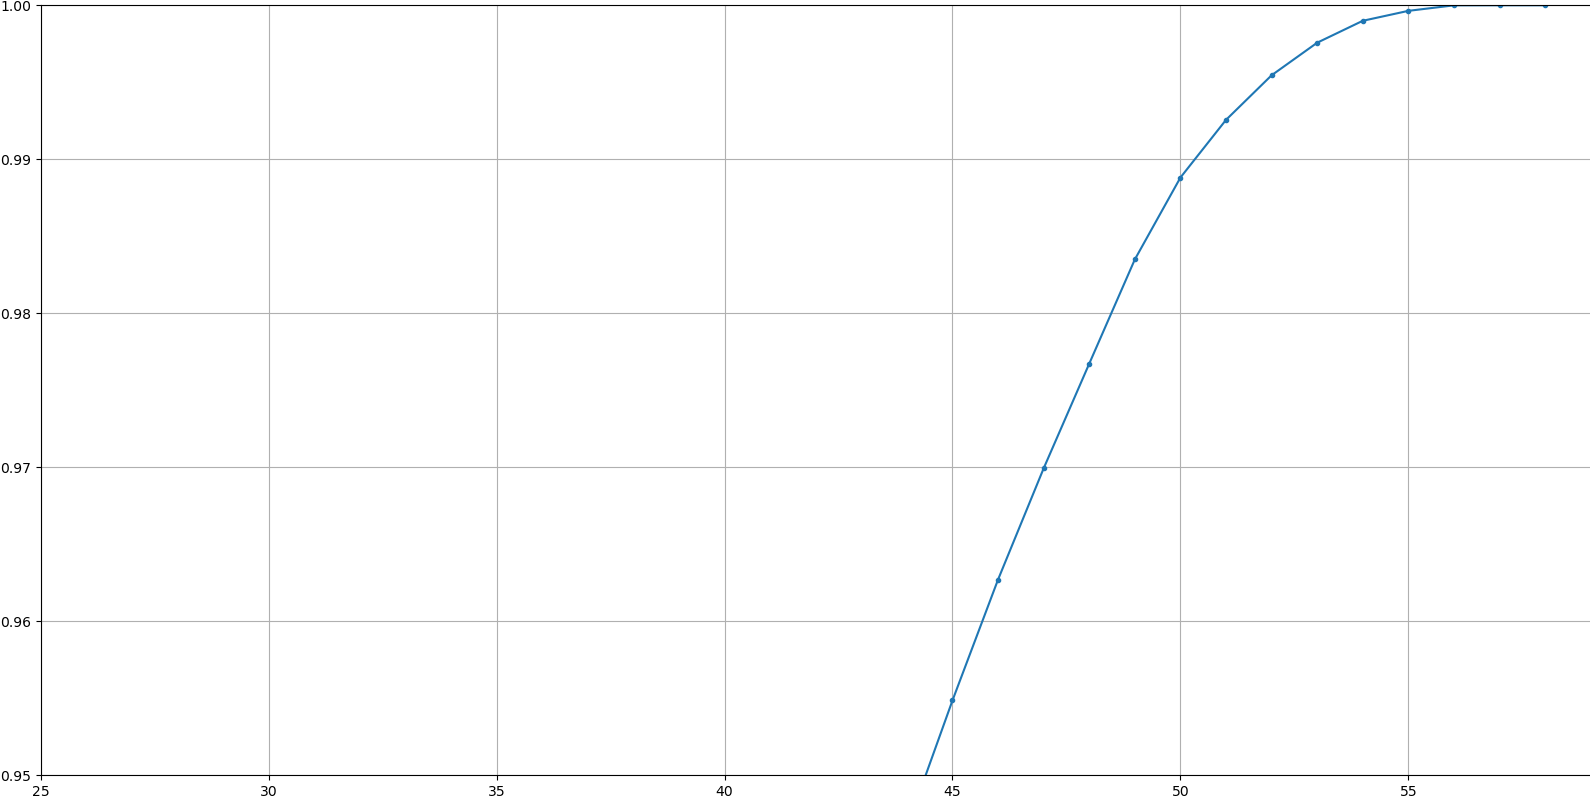
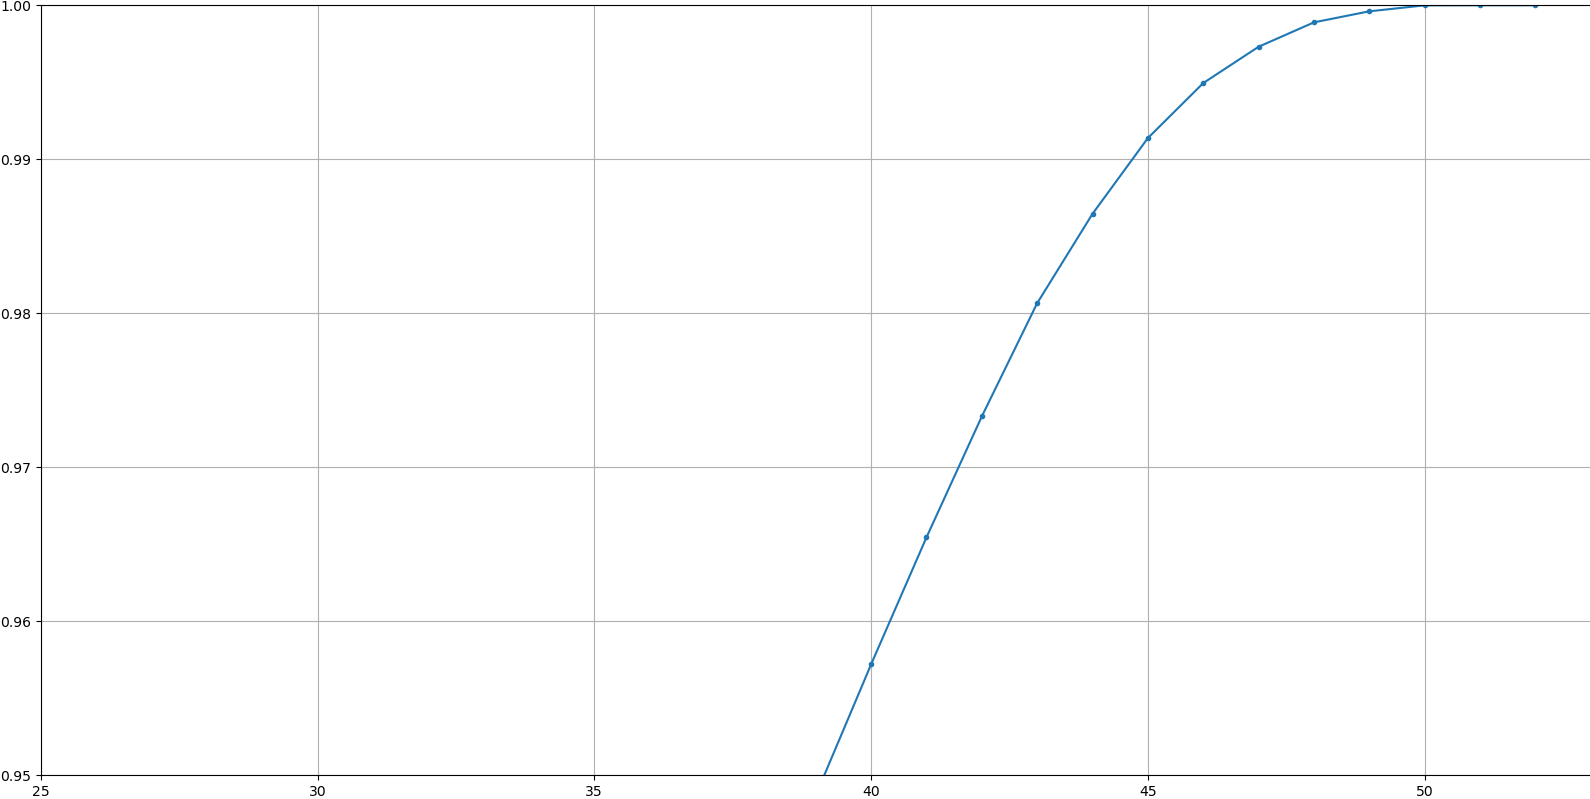
기준 백업 하나

diff --git a/project2/hcbae_pj_1_evaluate_data.py b/project2/hcbae_pj_1_evaluate_data.py
@@ -32,7 +32,7 @@ print("npy y.shape:",y.shape)
 # y = y[:10000]
 # 그냥 자르기 보다는 솎아내는게 낫겠다
 temp_x,x, temp_y,y = train_test_split(
-    x,y, random_state=44, shuffle=True, test_size=0.5)
+    x,y, random_state=44, shuffle=True, test_size=0.05)
 
 # print("merge_index:", indexes)
 print("merge_data.shape:",x.shape)
@@ -46,7 +46,7 @@ x_train,x_test, y_train,y_test = train_test_split(
 
 parameters_arr = [
     {'anyway__n_jobs':[-1],
-    'anyway__nthread':[-1],
+    #'anyway__nthread':[-1],
     'anyway__n_estimators':np.array(range(100,1000,100)),
     'anyway__max_depth': np.array(range(3,10)), # 트리 최대 깊이 default 6
     'anyway__learning_rate':np.array(np.arange(0.1,0.6,0.1)), # 학습률 default 0.3
@@ -55,8 +55,7 @@ parameters_arr = [
     }
 ]
 kfold = KFold(n_splits=5, shuffle=True)
-xbg = XGBClassifier(objective='multi:softmax', eval_metric='logloss')
-pipe = Pipeline([('scaler', StandardScaler()),('anyway', xbg)])
+pipe = Pipeline([('scaler', StandardScaler()),('anyway', XGBClassifier() )])
 model = RandomizedSearchCV(pipe, parameters_arr, cv=kfold, verbose=0)
 model.fit(x_train, y_train)
 score_at_fi = model.score(x_test, y_test)
@@ -70,7 +69,7 @@ model = XGBClassifier(original_params_at_fi)
 model.fit(x_train, y_train)
 score_at_fi_param = model.score(x_test, y_test)
 print("find param R2:", score_at_fi_param)
-print("find f.i:",model.feature_importances_)
+# print("find f.i:",model.feature_importances_)
 
 
 ######## 최적 파라미터로 구한 f.i를 정렬 후, 최대 R2에서 threshold 구하기 
@@ -153,7 +152,7 @@ x = scaler.transform(x)
 pca = PCA()
 pca.fit(x)
 cumsum = np.cumsum(pca.explained_variance_ratio_)
-print("cumsum:\r\n", cumsum)
+# print("cumsum:\r\n", cumsum)
 
 plt.rcParams["figure.figsize"] = (20, 10)
 plt.plot(cumsum, marker='.')
@@ -198,29 +197,47 @@ print("split x_pred.shape:",x_pred.shape)
 # ======== 모델을 위한 train_test_split 끝 ========
 
 
-###### 최적의 파라미터로, 다시 모델 돌리기 -> 모델 평가를 위해서
-model = XGBClassifier(original_params_at_fi)
+model = RandomizedSearchCV(pipe, parameters_arr, cv=kfold, verbose=0, random_state=44)
+model.fit(x_train, y_train)
+score_at_ac = model.score(x_test, y_test)
+print("after cutting R2:", score_at_ac)
+original_params2 = model.best_params_
+print("after cutting 최적의 파라미터:", original_params2)
+# ======== 모델+Pipeline+SearchCV 끝 ========
+
+
+
+# ======== 최적 파라미터 적용 모델+Pipeline+SearchCV 시작 ========
+model = XGBClassifier(original_params2)
 model.fit(x_train, y_train)
 score_at_final_param = model.score(x_test, y_test)
 print("final param R2:", score_at_final_param)
+# ======== 최적 파라미터 적용 모델+Pipeline+SearchCV 끝 ========
+
 
 
 y_predict = model.predict(x_pred)
 print("================================")
 print("original score:", score_at_fi)
 print("find param score:", score_at_fi_param)
-print("final param score:", score)
+print("after cutting score:", score_at_ac)
+print("final param score:", score_at_final_param)
 print('따로 빼낸 pred로 만든 accuracy:',accuracy_score(y_stand, y_predict))
 print("================================")
+
 
 
 ###### 추가 평가
 from sklearn.metrics import classification_report
 print("classification_report:\r\n",classification_report(y_test, y_predict))
 
+from sklearn.metrics import precision_recall_fscore_support as prf_score
+precision, recall, fscore, support = prf_score(y_test, y_predict)
 
-
-
+print('precision: {}'.format(precision))
+print('recall: {}'.format(recall))
+print('fscore: {}'.format(fscore))
+print('support: {}'.format(support))
 
 
 terminate_time = timeit.default_timer() # 종료 시간 체크  
